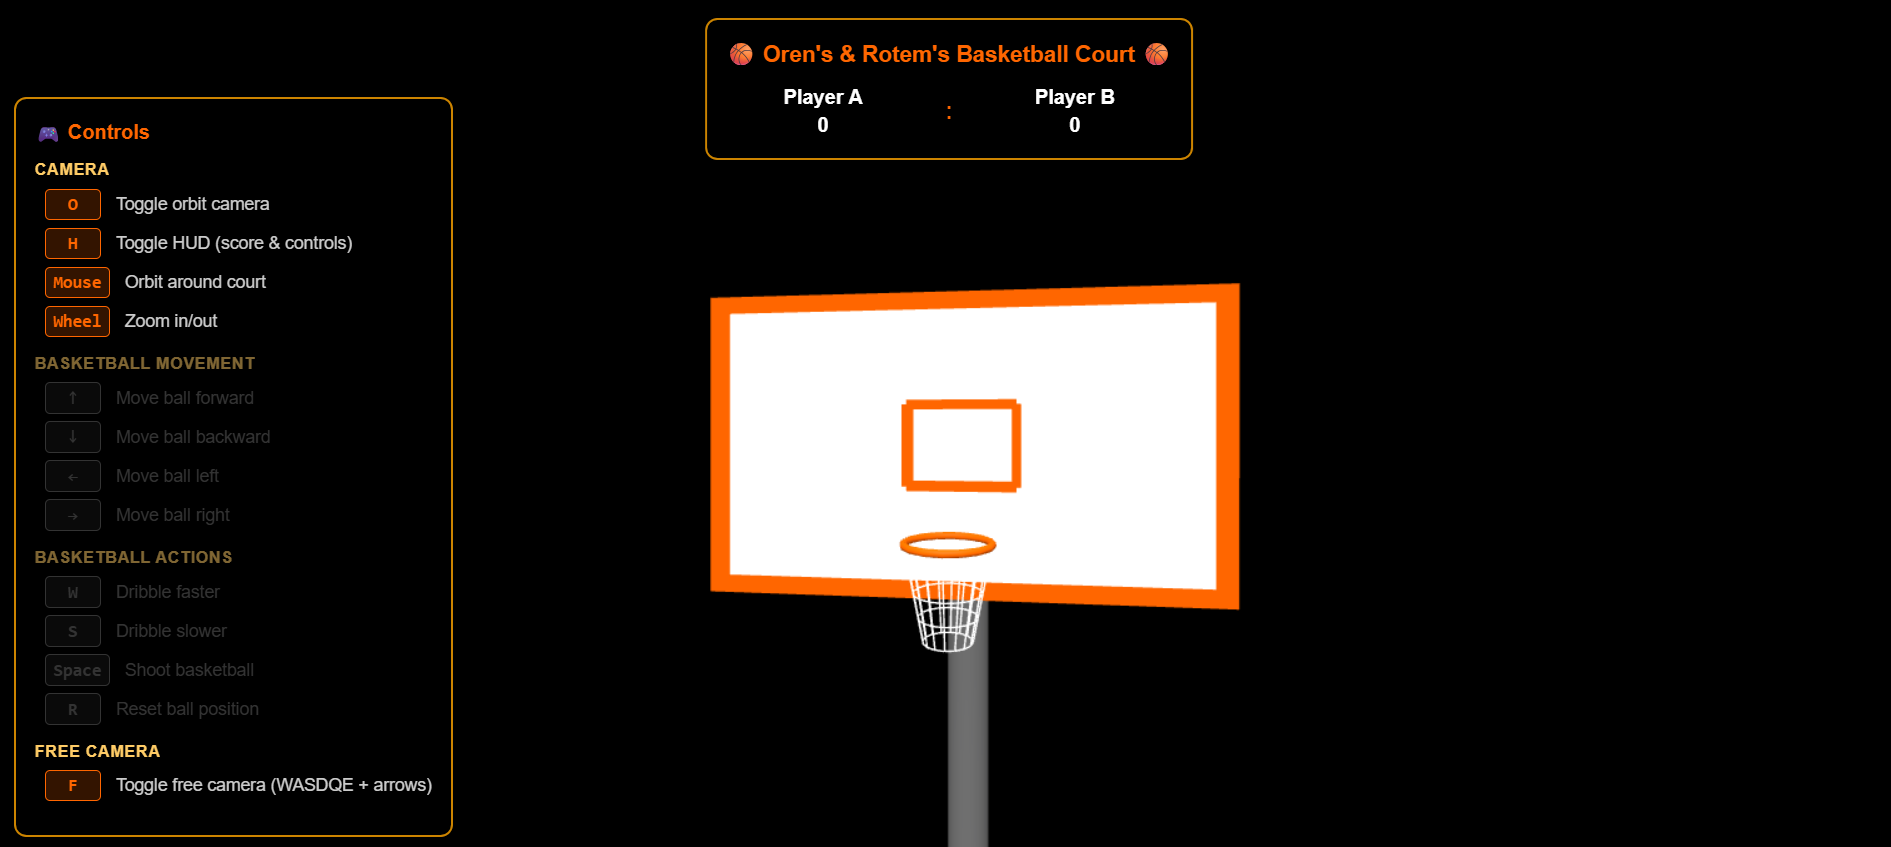
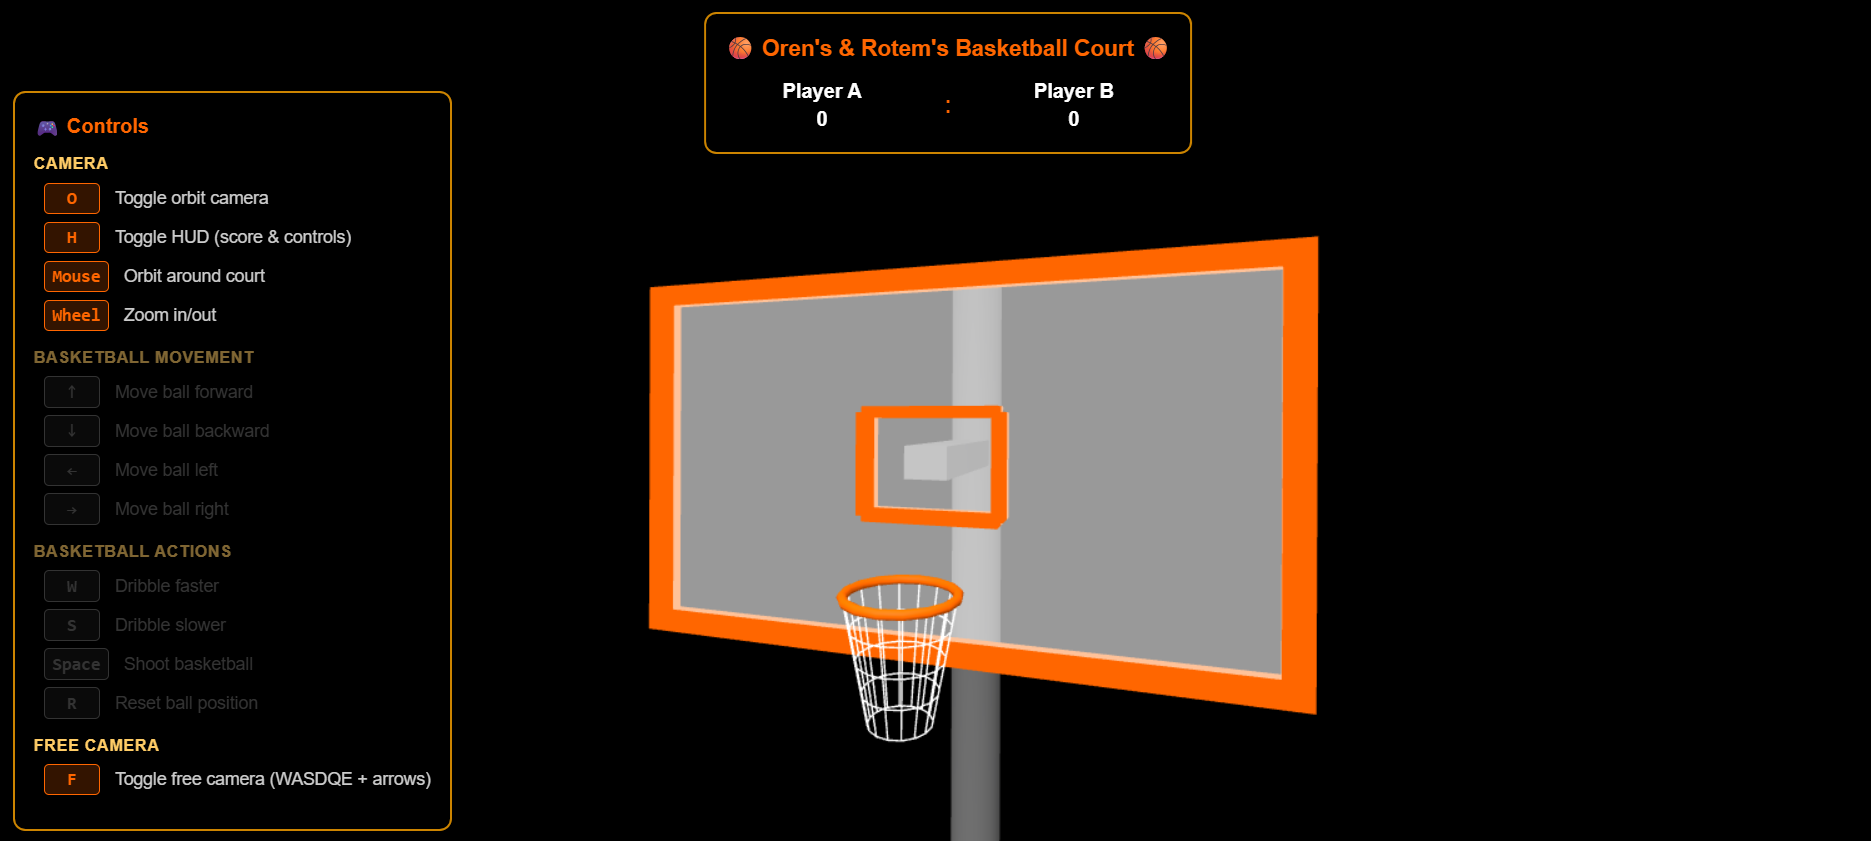
Enhance basketball hoop backboard material for improved visibility and realism

diff --git a/src/hw5.js b/src/hw5.js
@@ -365,12 +365,14 @@ function createBasketballHoop(hoopX) {
   arm.position.set(hoopX + (hoopX < 0 ? 0.5 : -0.5), 5, 0);
   arm.rotation.y = degreesToRadians(hoopX < 0 ? 90 : -90);
   arm.castShadow = true;
-  group.add(arm);
-
-  // Backboard (white base)
+  group.add(arm);  // Backboard (white base)
   const backboard = new THREE.Mesh(
     new THREE.BoxGeometry(2.8, 1.6, 0.1),
-    new THREE.MeshPhongMaterial({ color: 0xffffff })
+    new THREE.MeshPhongMaterial({ 
+      color: 0xffffff, 
+      transparent: true, 
+      opacity: 0.6 
+    })
   );
   backboard.position.set(hoopX + (hoopX < 0 ? 1 : -1), 5, 0);
   backboard.rotation.y = degreesToRadians(hoopX < 0 ? 90 : -90);
